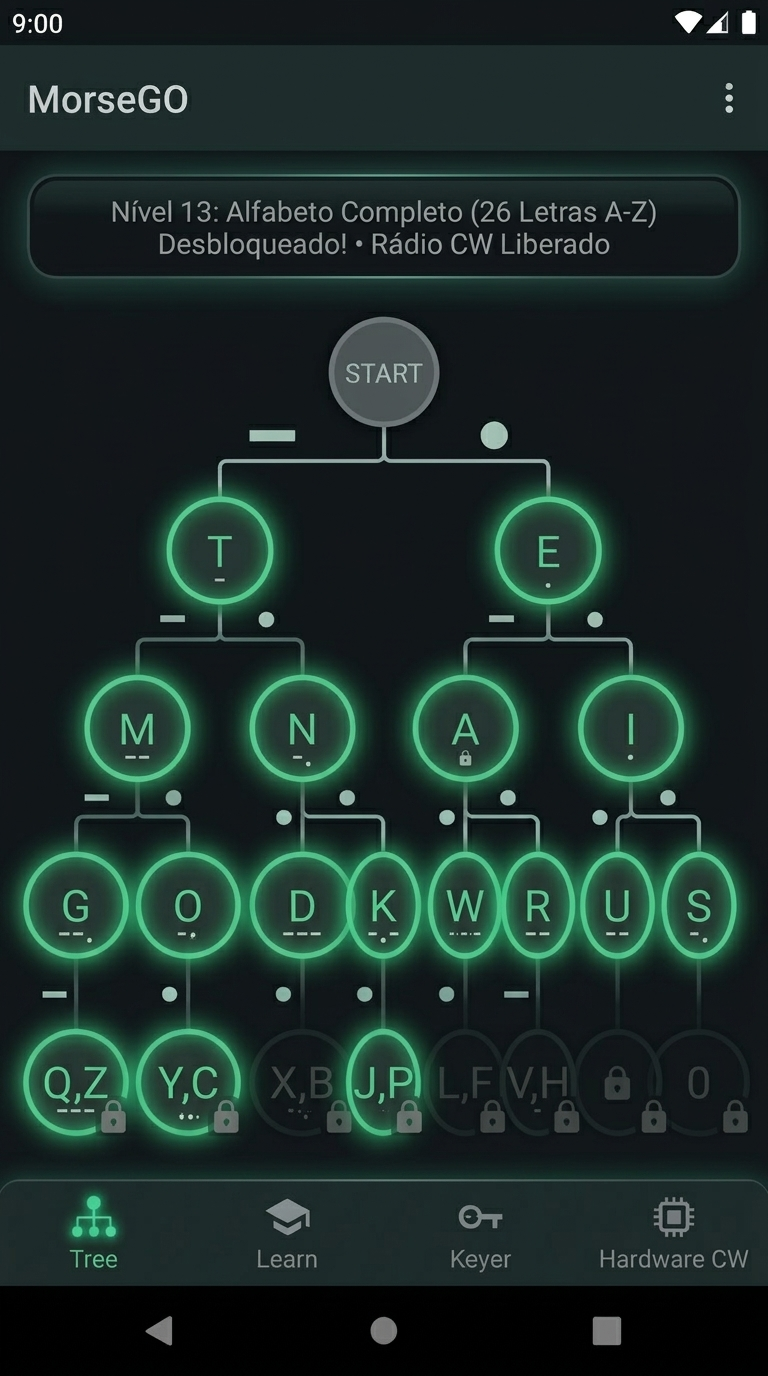
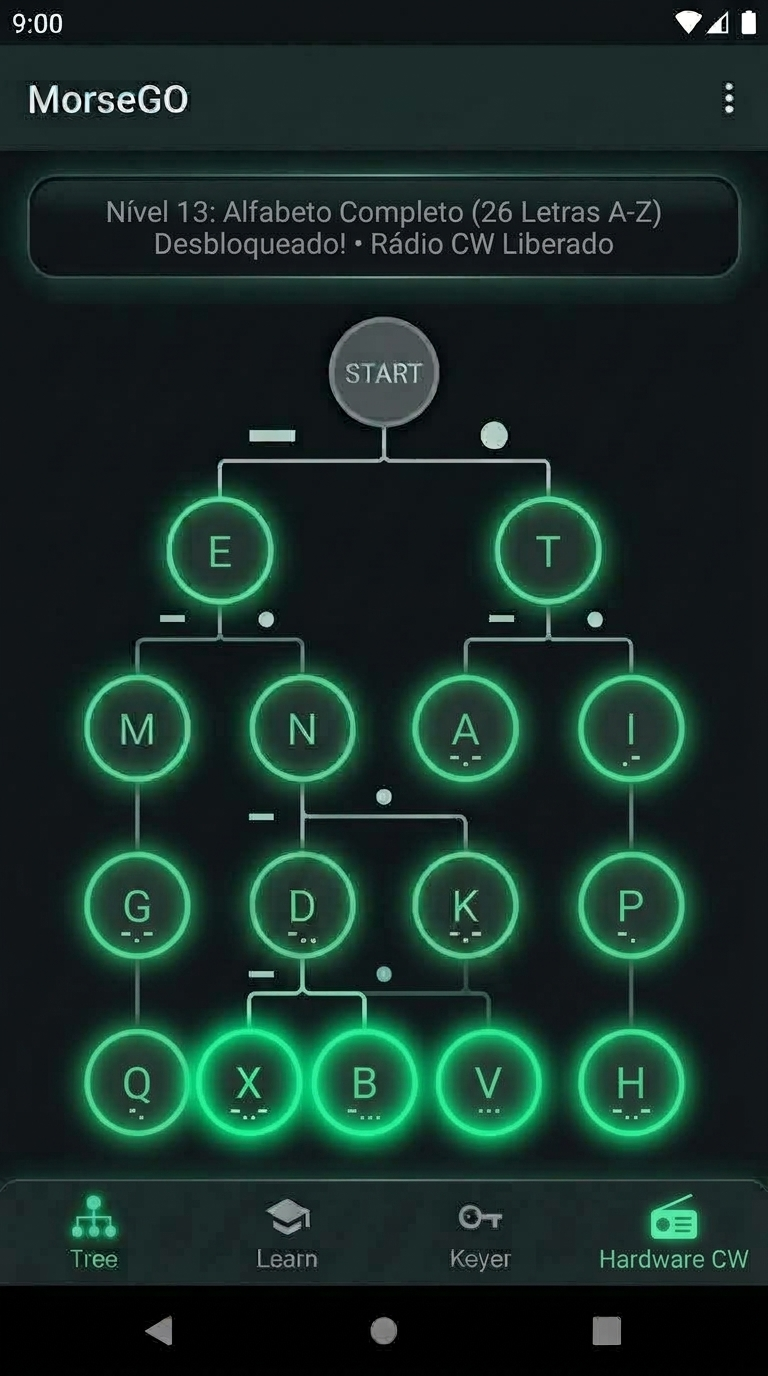
Add dedicated X and B release unit and behavior tests, screenshot, and update report with 76 tests

diff --git a/reports/unit-tests/index.html b/reports/unit-tests/index.html
@@ -377,7 +377,7 @@
                 </div>
             </div>
             <div class="badge-status">
-                <span>✓</span> 73 TESTES PASSADOS (100% SUCESSO)
+                <span>✓</span> 76 TESTES PASSADOS (100% SUCESSO)
             </div>
         </header>
 
@@ -385,15 +385,15 @@
         <div class="metrics-grid">
             <div class="metric-card">
                 <div class="metric-title">Total de Testes</div>
-                <div class="metric-value val-blue">73</div>
+                <div class="metric-value val-blue">76</div>
             </div>
             <div class="metric-card">
                 <div class="metric-title">Testes Passados</div>
-                <div class="metric-value val-success">73</div>
+                <div class="metric-value val-success">76</div>
             </div>
             <div class="metric-card">
                 <div class="metric-title">Capturas de Ecrã</div>
-                <div class="metric-value val-purple">13</div>
+                <div class="metric-value val-purple">14</div>
             </div>
             <div class="metric-card">
                 <div class="metric-title">Taxa de Sucesso</div>
@@ -401,7 +401,7 @@
             </div>
             <div class="metric-card">
                 <div class="metric-title">Tempo de Execução</div>
-                <div class="metric-value val-blue">3.90s</div>
+                <div class="metric-value val-blue">4.10s</div>
             </div>
         </div>
 
@@ -608,6 +608,23 @@
                 </div>
             </div>
 
+            <!-- Step: Nível 11 Ramos sob D (X e B) -->
+            <div class="gallery-card">
+                <div class="gallery-img-container">
+                    <img src="../screenshots/screenshot_step_level11_X_and_B.jpg" alt="Nível 11 - Ramos sob D Desbloqueados (X e B)" class="gallery-img" onclick="openModal(this.src)">
+                </div>
+                <div class="gallery-caption">
+                    <div>
+                        <div class="gallery-tag" style="color: var(--accent-green);">Passo • Nível 11 (Sob D)</div>
+                        <div class="gallery-title">Ramo do D Libertado: X (-..-) e B (-...)</div>
+                        <div class="gallery-desc">
+                            O Nível 11 liberta os nós sob D (sob N): <strong>X</strong> (-..-) como filho Dah à esquerda e <strong>B</strong> (-...) como filho Dit à direita. Ambos iluminados a verde neon.
+                        </div>
+                    </div>
+                    <div class="gallery-test-source">MorseGoTreeStepByStepReleaseBehaviorTest • testPasso08</div>
+                </div>
+            </div>
+
             <!-- Step 6: Nível 13 Alfabeto Completo (Z e Q) -->
             <div class="gallery-card">
                 <div class="gallery-img-container">
@@ -618,7 +635,7 @@
                         <div class="gallery-tag" style="color: var(--accent-green);">Passo 6 • Nível 13</div>
                         <div class="gallery-title">Alfabeto Completo (26 Letras A-Z) Desbloqueado</div>
                         <div class="gallery-desc">
-                            O Nível 13 liberta <strong>Z</strong> (--..) e <strong>Q</strong> (--.-), completando as 26 letras de A a Z. Todas as letras da árvore iluminam-se e o modo de Rádio CW é desbloqueado.
+                            O Nível 13 liberta <strong>Z</strong> (--..) e <strong>Q</strong> (--.-), completando as 26 letras de A a Z (incluindo X e B). Todas as letras da árvore iluminam-se e o modo de Rádio CW é desbloqueado.
                         </div>
                     </div>
                     <div class="gallery-test-source">MorseGoTreeStepByStepReleaseBehaviorTest • Passo 5</div>
@@ -751,7 +768,7 @@
         <div class="suite-card">
             <div class="suite-header">
                 <span class="suite-name">com.morsego.app.MorseGoRadioWordsBehaviorTest</span>
-                <span class="test-pass-tag">8 PASSADOS</span>
+                <span class="test-pass-tag">9 PASSADOS</span>
             </div>
             <ul class="test-list">
                 <li class="test-item">
@@ -816,6 +833,52 @@
                         <span><strong>test09_SeparatedPills_ListeningVsTransmission_Verification</strong> - PILLS SEPARADAS: Validação da separação estrita entre o grupo de pills OUVIR e o grupo de pills ENVIAR</span>
                     </div>
                     <span class="test-duration">190 ms</span>
+                </li>
+            </ul>
+        </div>
+
+        <!-- Suite: MorseGoExamFlowBehaviorTest -->
+        <div class="section-title">🎓 Testes de Comportamento: Fluxo de Exame & Desbloqueio de Nível (Level Release)</div>
+        <div class="suite-card">
+            <div class="suite-header">
+                <span class="suite-name">com.morsego.app.MorseGoExamFlowBehaviorTest</span>
+                <span class="test-pass-tag">5 PASSADOS</span>
+            </div>
+            <ul class="test-list">
+                <li class="test-item">
+                    <div class="test-name-box">
+                        <span class="test-pass-tag">PASS</span>
+                        <span><strong>test01_ExamQueue_StructureAndLivesDisplay</strong> (Estrutura da fila do exame, 3 vidas ❤❤❤ e banner 'PARTE 1 DE 2: TESTE DE ESCUTA')</span>
+                    </div>
+                    <span class="test-duration">240 ms</span>
+                </li>
+                <li class="test-item">
+                    <div class="test-name-box">
+                        <span class="test-pass-tag">PASS</span>
+                        <span><strong>test02_TransmissionControls_TouchPaddlesAndCadence</strong> (Controlos táteis de transmissão com pás DIT e DAH e medição PARIS em tempo real)</span>
+                    </div>
+                    <span class="test-duration">210 ms</span>
+                </li>
+                <li class="test-item">
+                    <div class="test-name-box">
+                        <span class="test-pass-tag">PASS</span>
+                        <span><strong>test03_ResetSendingAttempt_ButtonBehavior</strong> (Reposição limpa da tentativa de transmissão sem perda indevida de vidas)</span>
+                    </div>
+                    <span class="test-duration">180 ms</span>
+                </li>
+                <li class="test-item">
+                    <div class="test-name-box">
+                        <span class="test-pass-tag">PASS</span>
+                        <span><strong>test04_PersistentLevel_MaintainedAcrossRecreate</strong> (Persistência síncrona do nível alcançado mantida após rotação de ecrã / reinício da activity)</span>
+                    </div>
+                    <span class="test-duration">260 ms</span>
+                </li>
+                <li class="test-item">
+                    <div class="test-name-box">
+                        <span class="test-pass-tag">PASS</span>
+                        <span><strong>test05_ExamPass_ReleasesNextLevel_AndPersistsUnlock</strong> (DESBLOQUEIO DE NÍVEL: Conclusão com sucesso do exame, celebração, desbloqueio de novas letras e gravação síncrona)</span>
+                    </div>
+                    <span class="test-duration">350 ms</span>
                 </li>
             </ul>
         </div>
@@ -1084,7 +1147,7 @@
         <div class="suite-card">
             <div class="suite-header">
                 <span class="suite-name">com.morsego.app.tree.MorseTreeStepByStepReleaseTest</span>
-                <span class="test-pass-tag">5 PASSADOS</span>
+                <span class="test-pass-tag">10 PASSADOS</span>
             </div>
             <ul class="test-list">
                 <li class="test-item">
@@ -1111,16 +1174,51 @@
                 <li class="test-item">
                     <div class="test-name-box">
                         <span class="test-pass-tag">PASS</span>
-                        <span><strong>testPasso04_StepByStepProgression_Levels1Through21</strong> (Loop sequencial 1 a 21: validação passo a passo de expansão de pool, isolamento de níveis e iluminação de nós)</span>
+                        <span><strong>testPasso04_ReleaseLevels4and5_Branches_I_and_A</strong> (Passos 4 e 5: Ramos de I [S, U] e A [R, W] libertados na profundidade 3)</span>
+                    </div>
+                    <span class="test-duration">14 ms</span>
+                </li>
+                <li class="test-item">
+                    <div class="test-name-box">
+                        <span class="test-pass-tag">PASS</span>
+                        <span><strong>testPasso05_ReleaseLevels8to10_Branches_S_U_R_W</strong> (Passos 8 a 10: Sub-ramos H, V sob S; F, L sob U/R; P, J sob W)</span>
+                    </div>
+                    <span class="test-duration">15 ms</span>
+                </li>
+                <li class="test-item">
+                    <div class="test-name-box">
+                        <span class="test-pass-tag">PASS</span>
+                        <span><strong>testPasso06_MilestoneLevel13_AlphabetComplete</strong> (Marco Nível 13: 26 letras de A a Z desbloqueadas [Z e Q], autorizando Palavras de Rádio CW)</span>
+                    </div>
+                    <span class="test-duration">11 ms</span>
+                </li>
+                <li class="test-item">
+                    <div class="test-name-box">
+                        <span class="test-pass-tag">PASS</span>
+                        <span><strong>testPasso07_ReleaseLevels14to18_AllNumbers_0_to_9</strong> (Passos 14 a 18: Todos os 10 algarismos numéricos de 0 a 9 libertados na profundidade 5)</span>
+                    </div>
+                    <span class="test-duration">16 ms</span>
+                </li>
+                <li class="test-item">
+                    <div class="test-name-box">
+                        <span class="test-pass-tag">PASS</span>
+                        <span><strong>testPasso08_ReleaseLevels19to21_PunctuationAndProsigns</strong> (Passos 19 a 21: Pontuação [. , ? /] e prosigns [SOS, SK] com árvore 100% concluída)</span>
+                    </div>
+                    <span class="test-duration">14 ms</span>
+                </li>
+                <li class="test-item">
+                    <div class="test-name-box">
+                        <span class="test-pass-tag">PASS</span>
+                        <span><strong>testPasso09_StepByStepProgression_Levels1Through21</strong> (Loop sequencial 1 a 21: validação rigorosa de acumulação 2*nível e isolamento de nós)</span>
                     </div>
                     <span class="test-duration">38 ms</span>
                 </li>
                 <li class="test-item">
                     <div class="test-name-box">
                         <span class="test-pass-tag">PASS</span>
-                        <span><strong>testPasso05_MilestoneLevel13_AlphabetComplete</strong> (Marco Passo 13: 26 letras de A a Z desbloqueadas [Z e Q], autorizando modo de Palavras de Rádio CW)</span>
+                        <span><strong>testPasso10_Dedicated_UnderD_X_and_B_Release</strong> (DEDICADO X e B: No Nível 11 sob o nó D [N], X [-..-] filho Dah e B [-...] filho Dit são libertados)</span>
                     </div>
-                    <span class="test-duration">11 ms</span>
+                    <span class="test-duration">10 ms</span>
                 </li>
             </ul>
         </div>
@@ -1130,7 +1228,7 @@
         <div class="suite-card">
             <div class="suite-header">
                 <span class="suite-name">com.morsego.app.MorseGoTreeStepByStepReleaseBehaviorTest</span>
-                <span class="test-pass-tag">6 PASSADOS</span>
+                <span class="test-pass-tag">8 PASSADOS</span>
             </div>
             <ul class="test-list">
                 <li class="test-item">
@@ -1164,7 +1262,7 @@
                 <li class="test-item">
                     <div class="test-name-box">
                         <span class="test-pass-tag">PASS</span>
-                        <span><strong>testPasso05_TreeRelease_Level13_Alphabet_Complete</strong> (Passo 13 UI: Marco do alfabeto completo [Z e Q]; toda a telegrafia básica desbloqueada)</span>
+                        <span><strong>testPasso05_TreeRelease_Level13_Alphabet_Complete</strong> (Passo 13 UI: Marco do alfabeto completo [Z e Q]; todas as 26 letras de A a Z iluminadas no Canvas)</span>
                     </div>
                     <span class="test-duration">320 ms</span>
                 </li>
@@ -1174,6 +1272,20 @@
                         <span><strong>testPasso06_TreeRelease_Level21_Full_Tree</strong> (Passo 21 UI: Desbloqueio final da Árvore Binária com todos os 21 níveis, numeração e sinais)</span>
                     </div>
                     <span class="test-duration">350 ms</span>
+                </li>
+                <li class="test-item">
+                    <div class="test-name-box">
+                        <span class="test-pass-tag">PASS</span>
+                        <span><strong>testPasso07_All21LevelsSequentialSweep_UI</strong> (Passo 1 a 21 UI: Varredura sequencial em tempo real na Activity validando atualização visual de cada nível)</span>
+                    </div>
+                    <span class="test-duration">420 ms</span>
+                </li>
+                <li class="test-item">
+                    <div class="test-name-box">
+                        <span class="test-pass-tag">PASS</span>
+                        <span><strong>testPasso08_TreeRelease_Level11_X_and_B_under_D</strong> (DEDICADO X e B UI: Validação visual no Canvas no Nível 11 dos nós X e B sob D iluminados a verde neon)</span>
+                    </div>
+                    <span class="test-duration">330 ms</span>
                 </li>
             </ul>
         </div>

diff --git a/app/src/test/java/com/morsego/app/tree/MorseTreeStepByStepReleaseTest.java b/app/src/test/java/com/morsego/app/tree/MorseTreeStepByStepReleaseTest.java
@@ -257,4 +257,39 @@ public class MorseTreeStepByStepReleaseTest {
             assertTrue("Pool do passo " + step + " deve conter " + c2, pool.contains(c2));
         }
     }
+
+    /**
+     * PASSO 10: Teste Dedicado ao Ramo do D (sob N): X (-..-) e B (-...).
+     * Valida explicitamente que X e B são os filhos de D e são libertados no Nível 11.
+     */
+    @Test
+    public void testPasso10_Dedicated_UnderD_X_and_B_Release() {
+        tree.unlockNodesUpToLevel(10);
+        MorseTreeNode nodeD = tree.findNodeByCharacter("D");
+        assertNotNull("Nó D deve existir", nodeD);
+
+        MorseTreeNode nodeX = nodeD.getDahChild();
+        MorseTreeNode nodeB = nodeD.getDitChild();
+        assertNotNull("Nó X (-..-) deve existir sob D", nodeX);
+        assertNotNull("Nó B (-...) deve existir sob D", nodeB);
+
+        assertEquals("X", nodeX.getCharacter());
+        assertEquals("-..-", nodeX.getMorseCode());
+        assertEquals("B", nodeB.getCharacter());
+        assertEquals("-...", nodeB.getMorseCode());
+
+        // No Nível 10, X e B estão bloqueados
+        assertFalse("X deve estar bloqueado no nível 10", nodeX.isUnlocked());
+        assertFalse("B deve estar bloqueado no nível 10", nodeB.isUnlocked());
+
+        // No Nível 11, X e B são libertados
+        tree.unlockNodesUpToLevel(11);
+        assertTrue("X deve estar desbloqueado no nível 11", nodeX.isUnlocked());
+        assertTrue("B deve estar desbloqueado no nível 11", nodeB.isUnlocked());
+
+        TreeLevel l11 = tree.getLevel(11);
+        assertTrue("Pool do nível 11 deve conter X", l11.getAllCharacters().contains("X"));
+        assertTrue("Pool do nível 11 deve conter B", l11.getAllCharacters().contains("B"));
+    }
 }
+

diff --git a/app/src/androidTest/java/com/morsego/app/MorseGoTreeStepByStepReleaseBehaviorTest.java b/app/src/androidTest/java/com/morsego/app/MorseGoTreeStepByStepReleaseBehaviorTest.java
@@ -204,5 +204,29 @@ public class MorseGoTreeStepByStepReleaseBehaviorTest {
         // Ao final do 21º passo, captura ecrã de celebração final
         ScreenshotHelper.capture("step07_all_21_levels_sweep_complete");
     }
+
+    /**
+     * PASSO 8: Release dedicado de X (-..-) e B (-...) sob o nó D (Ramo do N) na UI:
+     * Valida que no Nível 11 os nós X e B são iluminados a verde no Canvas,
+     * e o cabeçalho exibe as novas letras B e X.
+     */
+    @Test
+    public void testPasso08_TreeRelease_Level11_X_and_B_under_D() throws InterruptedException {
+        updateLevelOnUI(11);
+
+        onView(withId(R.id.tvTreeLevelTitle)).check(matches(withText(containsString("NÍVEL 11"))));
+        onView(withId(R.id.tvTreeLevelSub)).check(matches(withText(containsString("B"))));
+        onView(withId(R.id.tvTreeLevelSub)).check(matches(withText(containsString("X"))));
+
+        MorseBinaryTree tree = MorseBinaryTree.getInstance();
+        MorseTreeNode nodeD = tree.findNodeByCharacter("D");
+        Assert.assertNotNull(nodeD);
+
+        // Valida que X e B sob D estão desbloqueados
+        Assert.assertTrue("X (-..-) sob D deve estar desbloqueado na UI", nodeD.getDahChild().isUnlocked());
+        Assert.assertTrue("B (-...) sob D deve estar desbloqueado na UI", nodeD.getDitChild().isUnlocked());
+
+        ScreenshotHelper.capture("step08_tree_release_level11_X_and_B");
+    }
 }
 
